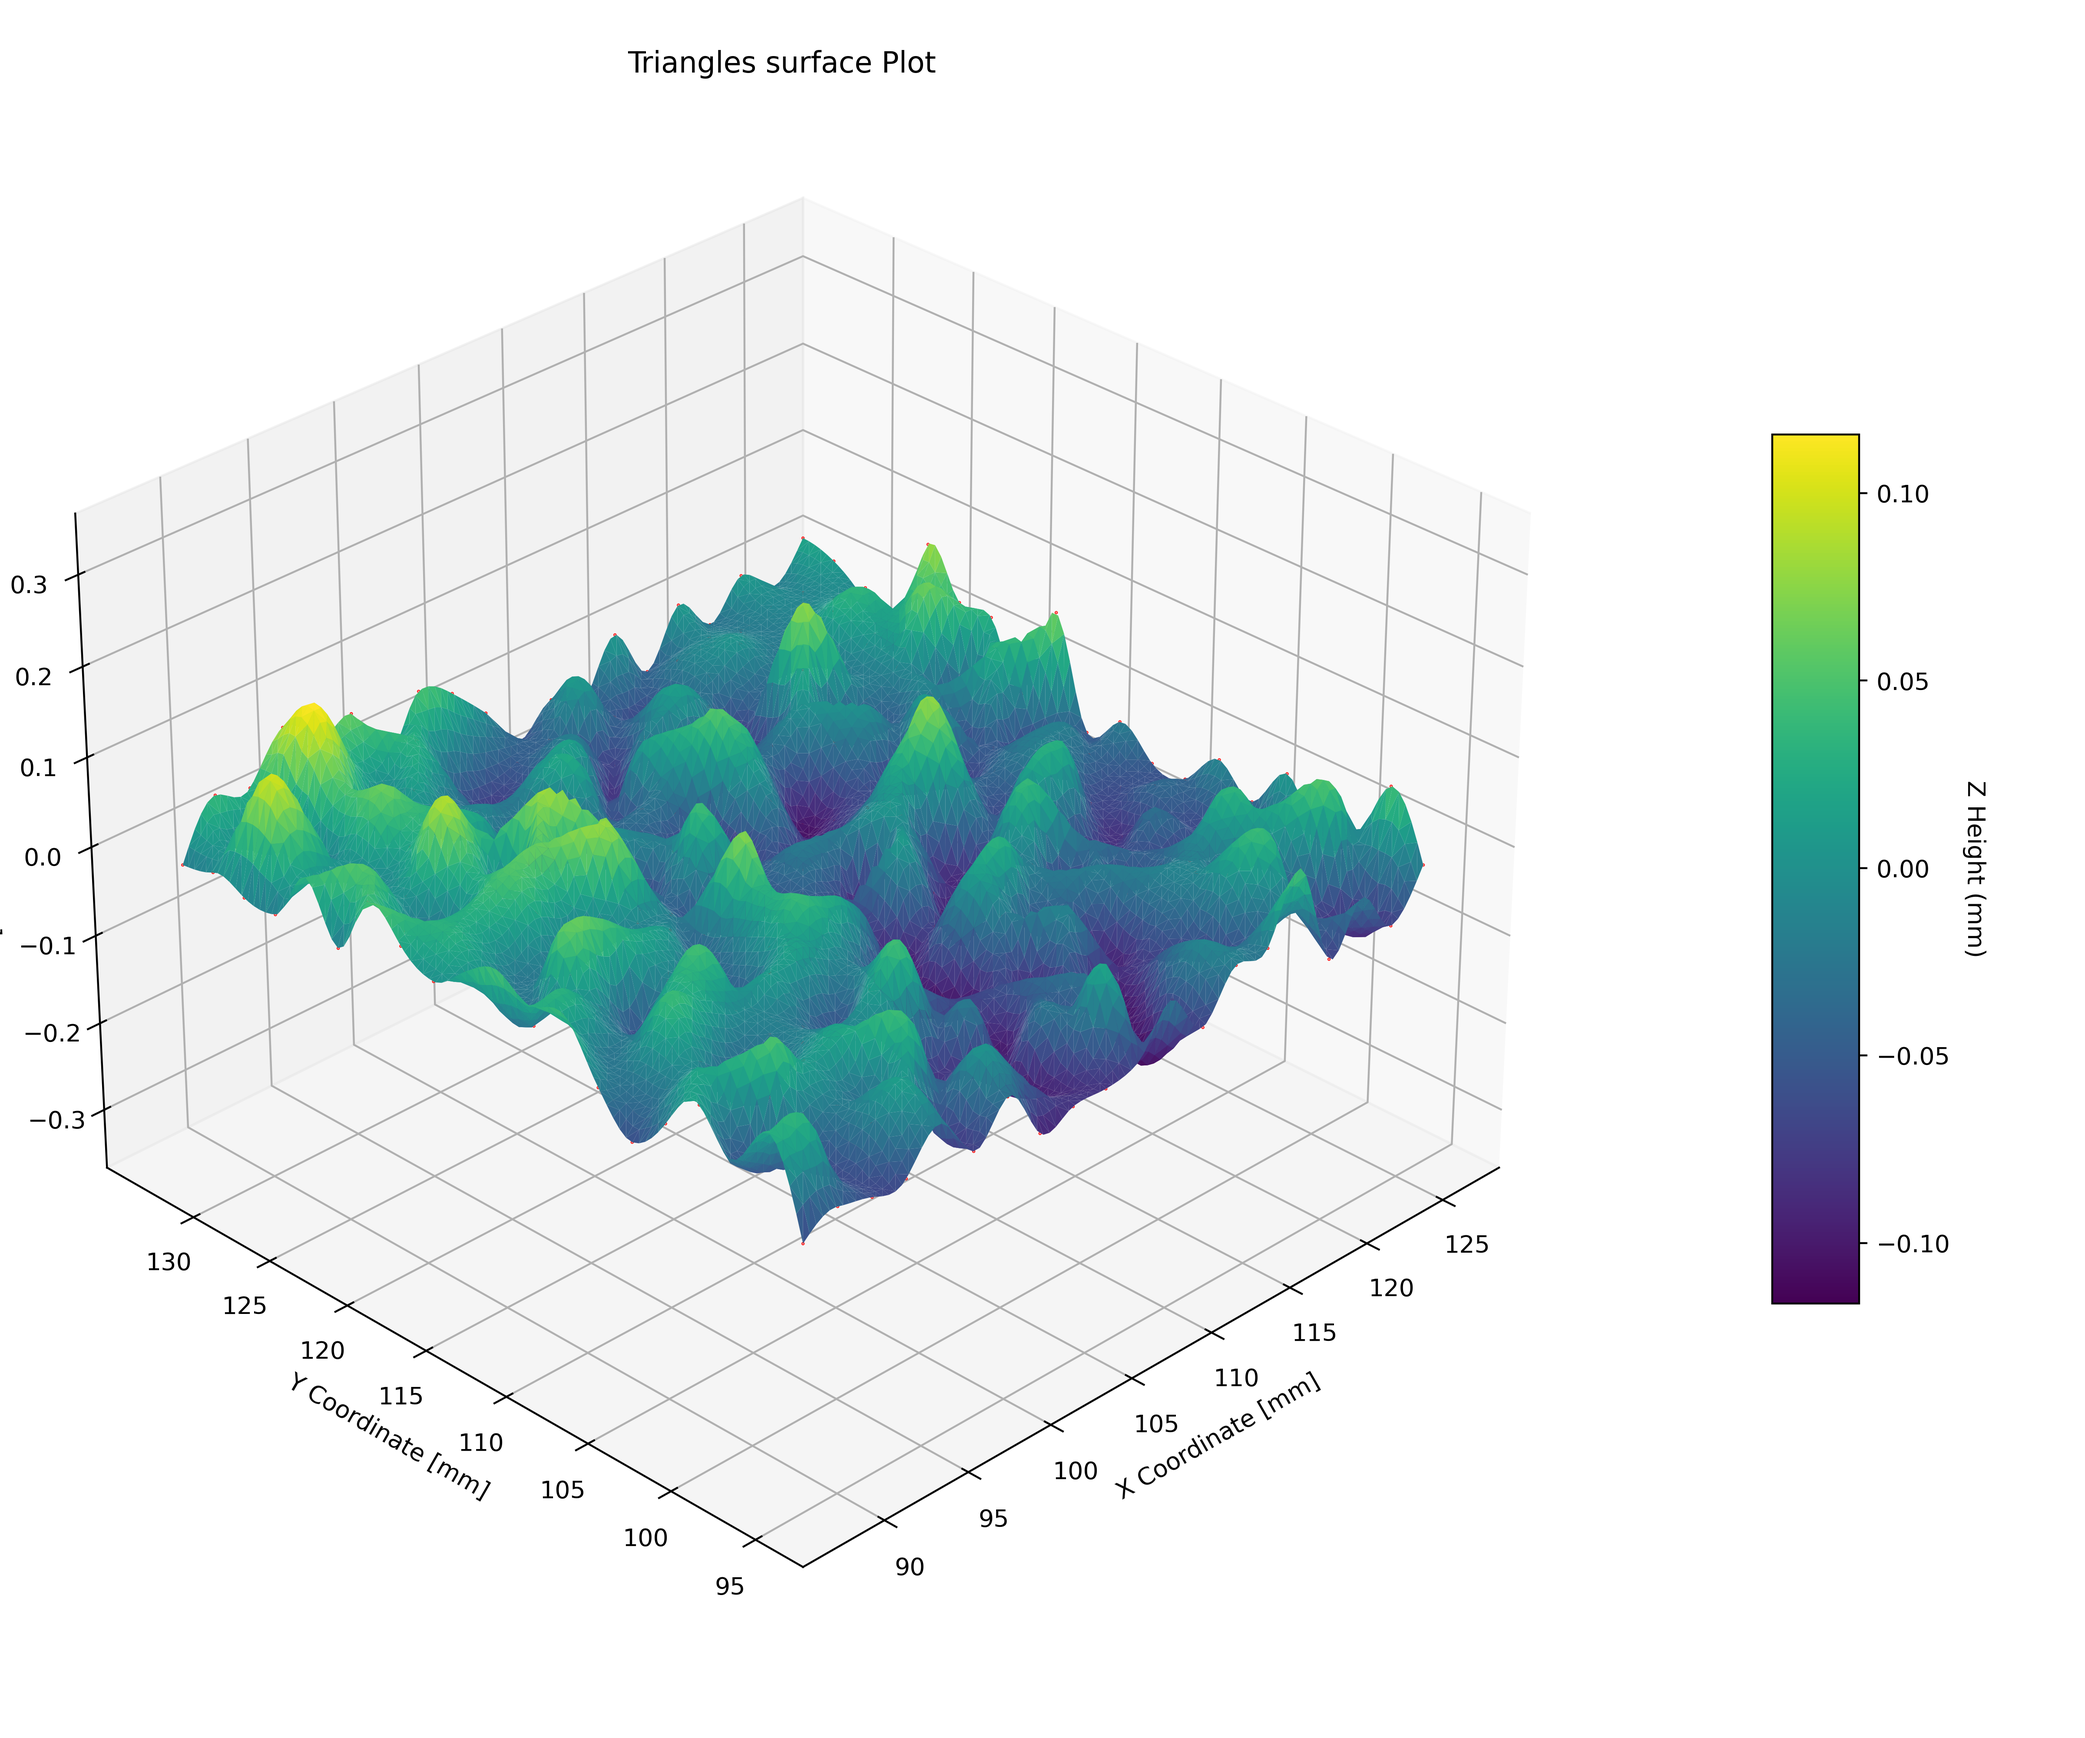
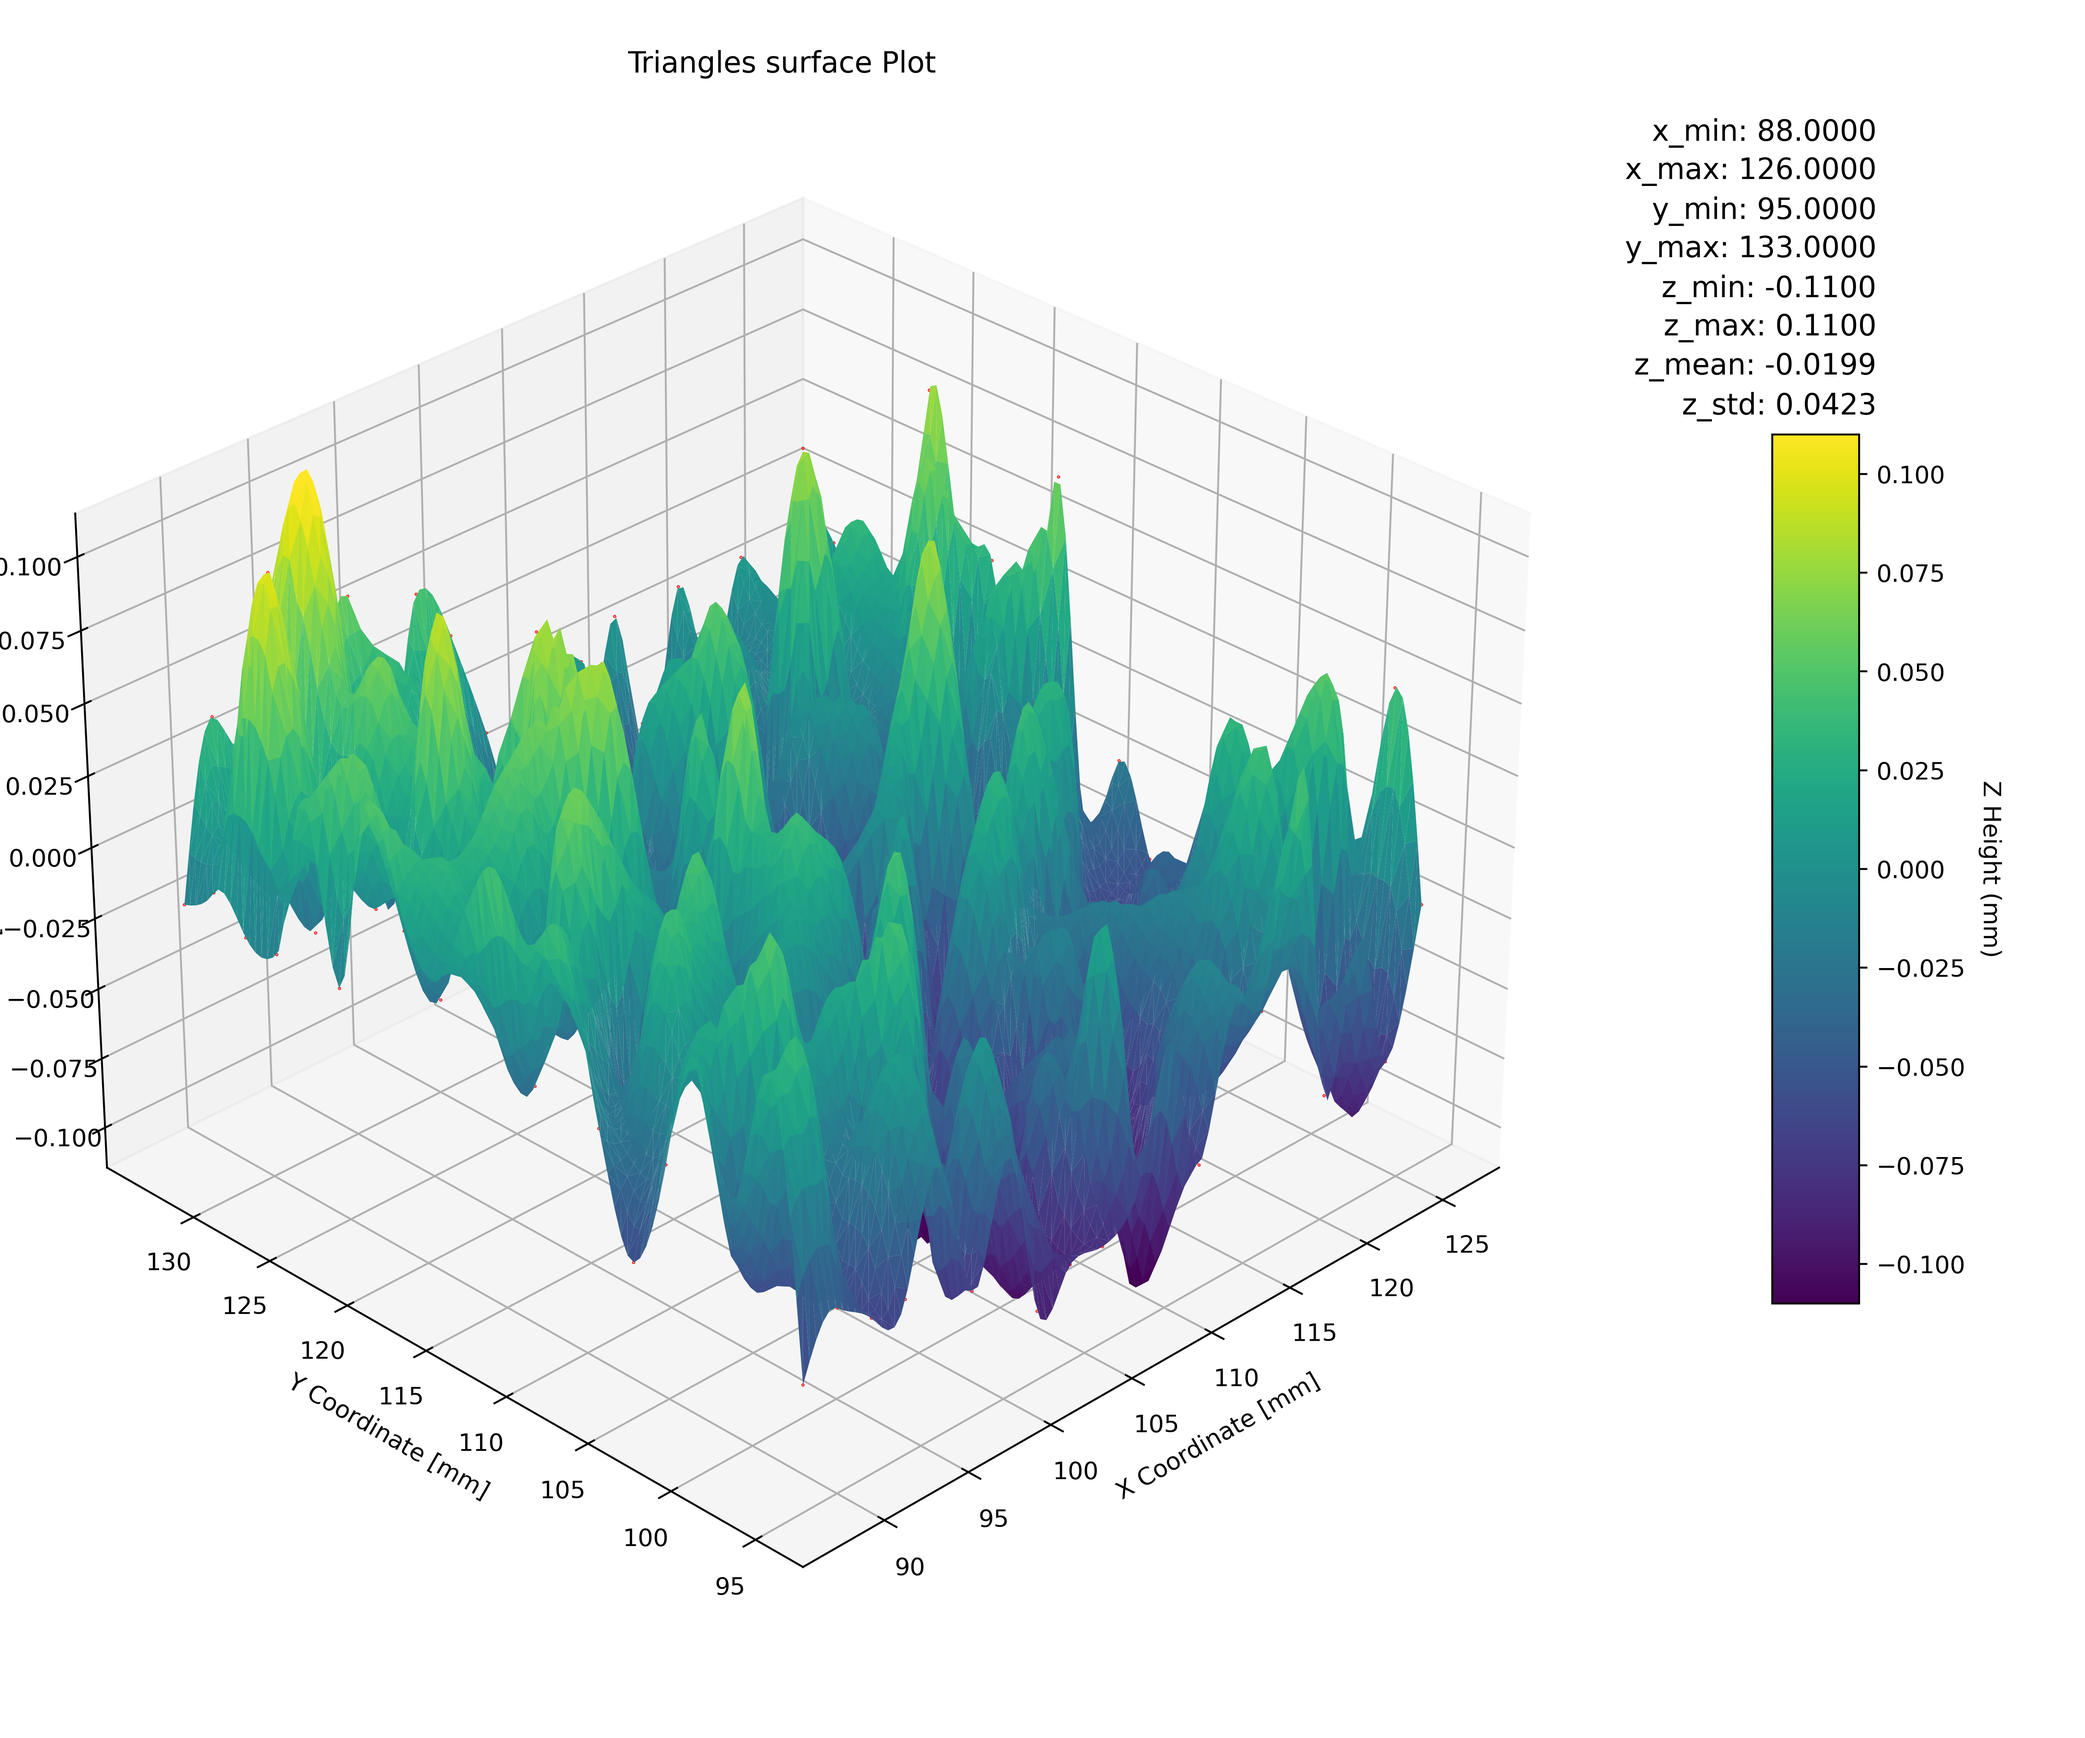
Add z limits by configuration. Print metrics.

diff --git a/plot-bed-leveling/plot_bed_leveling.py b/plot-bed-leveling/plot_bed_leveling.py
@@ -37,11 +37,14 @@ class Config:
         ]
 
         class Limits:
-            use_custom_limits = False,
+            use_custom_xy_limits = False,
+            use_custom_z_limits = False,
             x_max = 235,
             x_min = 0,
             y_max = 235,
             y_min = 0,
+            z_max = 235,
+            z_min = 0,
 
     class Grid:
         class Shape:
@@ -64,11 +67,14 @@ class Config:
         Config.Figure.dots_per_inch = json_dict["figure"]["dots_per_inch"]
         Config.Figure.marker_size = json_dict["figure"]["marker_size"]
         Config.Figure.z_expansion = json_dict["figure"]["z_expansion"]
-        Config.Figure.Limits.use_custom_limits = json_dict["figure"]["limits"]["use_custom_limits"]
+        Config.Figure.Limits.use_custom_xy_limits = json_dict["figure"]["limits"]["use_custom_xy_limits"]
+        Config.Figure.Limits.use_custom_z_limits = json_dict["figure"]["limits"]["use_custom_z_limits"]
         Config.Figure.Limits.x_min = json_dict["figure"]["limits"]["x"]["min"]
         Config.Figure.Limits.x_max = json_dict["figure"]["limits"]["x"]["max"]
         Config.Figure.Limits.y_min = json_dict["figure"]["limits"]["y"]["min"]
         Config.Figure.Limits.y_max = json_dict["figure"]["limits"]["y"]["max"]
+        Config.Figure.Limits.z_min = json_dict["figure"]["limits"]["z"]["min"]
+        Config.Figure.Limits.z_max = json_dict["figure"]["limits"]["z"]["max"]
 
         # Store grid parameters
         Config.Grid.Shape.x = json_dict["grid"]["shape"]["x"]
@@ -85,7 +91,7 @@ class Config:
 
 # --------- Data management functions ---------
 
-def extract_df_coordinates(csv_df: DataFrame) -> tuple[ndarray, ndarray]:
+def extract_df_coordinates(csv_df: DataFrame) -> tuple[ndarray, ndarray, ndarray]:
     '''Extract csv data coordinates as numpy array'''
     return csv_df.iloc[:, 1].values, csv_df.iloc[:, 2].values, csv_df.iloc[:, 3].values
 
@@ -116,11 +122,8 @@ def prepare_plot():
 
 def scale_xy_axis(ax: Axes, x: ndarray, y: ndarray):
     '''Set x-y axis limits to mantain proportional scaling between the x and y axes'''
-    
-    # Configure x-y limits
-    # ---------------------------------
-
-    if Config.Figure.Limits.use_custom_limits:
+    # Custom xy limits defined by configuration
+    if Config.Figure.Limits.use_custom_xy_limits:
         ax.set_xlim(
             Config.Figure.Limits.x_min,
             Config.Figure.Limits.x_max)
@@ -181,14 +184,20 @@ def scale_xy_axis(ax: Axes, x: ndarray, y: ndarray):
     
 def scale_z_axis(ax: Axes, z: ndarray):
     '''Scale Z axis taking into acount the z expansion provided by configuration'''
-    # Get z limits and range
-    z_min, z_max = np.min(z), np.max(z)
-    z_range = z_max - z_min
+    # Custom z limits defined by configuration
+    if Config.Figure.Limits.use_custom_z_limits:
+        ax.set_zlim(
+            Config.Figure.Limits.z_min,
+            Config.Figure.Limits.z_max)
+    else:
+        # Get z limits and range
+        z_min, z_max = np.min(z), np.max(z)
+        z_range = z_max - z_min
 
-    # Set new Z-limits to make the plot "flatter" by expanding the Z range
-    ax.set_zlim(
-        z_min - Config.Figure.z_expansion * z_range,
-        z_max + Config.Figure.z_expansion * z_range)
+        # Set new Z-limits to make the plot "flatter" by expanding the Z range
+        ax.set_zlim(
+            z_min - Config.Figure.z_expansion * z_range,
+            z_max + Config.Figure.z_expansion * z_range)
 
 def add_color_bar(fig: Figure, ax: Axes, surf):
     '''Add a color bar to the plot'''
@@ -197,6 +206,39 @@ def add_color_bar(fig: Figure, ax: Axes, surf):
                              aspect=Config.ColorBar.aspect,
                              pad=Config.ColorBar.pad)
     color_bar.set_label('Z Height (mm)', rotation=270, labelpad=15)
+
+def add_statistics_metrics(ax: Axes, reference_points_df: DataFrame):
+    ''''''
+    x, y, z = extract_df_coordinates(reference_points_df)
+    x_min, x_max = x.min(), x.max()
+    y_min, y_max = y.min(), y.max()
+    z_min, z_max = z.min(), z.max()
+
+    z_mean = z.mean()
+    z_std = z.std()
+
+    # Print metrics
+    print(f"x min: {x_min}")
+    print(f"x max: {x_max}")
+    print(f"y min: {y_min}")
+    print(f"y max: {y_max}")
+    print(f"z min: {z_min}")
+    print(f"z max: {z_max}")
+    print(f"z mean:{z_mean}")
+    print(f"z std: {z_std}")
+
+    # Define the set of values to display in the top-right corner
+    text_values = [("x_min", x_min), ("x_max", x_max),
+              ("y_min", y_min), ("y_max", y_max),
+              ("z_min", z_min), ("z_max", z_max),
+              ("z_mean", z_mean), ("z_std", z_std)]
+
+    # Add each value to the top-right corner
+    for i, text_value in enumerate(text_values):
+        text = text_value[0]
+        value = text_value[1]
+        ax.text2D(1.2, 0.98 - i * 0.025, f"{text}: {value:.4f}",
+                transform=ax.transAxes, ha='right', va='top', fontsize=12, color='black')
 
 def save_figures(plot_type, output_path_base, fig: Figure, ax: Axes):
     '''Check output path existence. Save the figures provided by configuration->figure->views'''
@@ -248,8 +290,15 @@ def create_and_save_2D_view(plot_type, output_path_base, reference_points_df, gr
     # Scale x y axis to mantain aspect ratio. Scale z axis
     scale_xy_axis(ax2, x, y)
 
-    # Plot the contour (flat 2D view)
-    c = ax2.contourf(grid_x, grid_y, grid_z, 20, cmap='viridis')  # 20 levels in the color map
+    
+    # Custom z limits defined by configuration
+    if Config.Figure.Limits.use_custom_z_limits:
+        # Plot the contour (flat 2D view)
+        c = ax2.contourf(grid_x, grid_y, grid_z, 20, cmap='viridis',
+                         vmin=Config.Figure.Limits.z_min, vmax=Config.Figure.Limits.z_max)
+    else:
+        # Plot the contour (flat 2D view)
+        c = ax2.contourf(grid_x, grid_y, grid_z, 20, cmap='viridis')
 
     # Add color bar
     color_bar = fig2.colorbar(c) # Z Height [mm]
@@ -324,7 +373,7 @@ def process_csv_df(csv_df: DataFrame):
     biased_csv_df.iloc[:, 2] = csv_df.iloc[:, 2] + Config.ZProbeBias.y
 
     # If custom limist are provided by configuration
-    if Config.Figure.Limits.use_custom_limits:
+    if Config.Figure.Limits.use_custom_xy_limits:
         # Get the mask for those values inside the limits
         mask_x = (biased_csv_df.iloc[:, 1] >= Config.Figure.Limits.x_min) & \
                  (biased_csv_df.iloc[:, 1] <= Config.Figure.Limits.x_max)
@@ -356,12 +405,7 @@ def process_csv_df(csv_df: DataFrame):
     # Divide the max and min values in 2 even sides
     processed_csv_df.iloc[:, 3] -= z_middle
 
-    print(f"x min: {processed_csv_df.iloc[:, 1].min()}")
-    print(f"x max: {processed_csv_df.iloc[:, 1].max()}")
-    print(f"y min: {processed_csv_df.iloc[:, 2].min()}")
-    print(f"y max: {processed_csv_df.iloc[:, 2].max()}")
-    print(f"z min: {processed_csv_df.iloc[:, 3].min()}")
-    print(f"z max: {processed_csv_df.iloc[:, 3].max()}")
+    
 
     return processed_csv_df
 
@@ -401,13 +445,22 @@ def plot_surface(reference_points_df, grid_np, output_path_base):
     # Set title
     ax.set_title('Surface Plot')
 
+    # Plot the surface
     surf = ax.plot_surface(grid_x, grid_y, grid_z, cmap='viridis', edgecolor='none')
+
+    # Custom z limits defined by configuration
+    if Config.Figure.Limits.use_custom_z_limits:
+        # Set colormap limits
+        surf.set_clim(vmin=Config.Figure.Limits.z_min, vmax=Config.Figure.Limits.z_max)
 
     # Plot the points
     ax.scatter(x, y, z, c='r', marker='o', s=Config.Figure.marker_size, alpha=1.0)  # You can adjust color and marker style
 
     # Add color bar
     add_color_bar(fig, ax, surf)
+
+    # Add statistics
+    add_statistics_metrics(ax, reference_points_df)
 
     # Save 3D figures
     save_figures(plot_type, output_path_base, fig, ax)
@@ -444,15 +497,27 @@ def plot_trisurf(reference_points_df, grid_np, output_path_base):
     # Plot the surface using trisurf
     surf = ax.plot_trisurf(x_flat, y_flat, z_flat, cmap='viridis')
 
+    # Custom z limits defined by configuration
+    if Config.Figure.Limits.use_custom_z_limits:
+        # Set colormap limits
+        surf.set_clim(vmin=Config.Figure.Limits.z_min, vmax=Config.Figure.Limits.z_max)
+
     # Plot the points
     ax.scatter(x, y, z, c='r', marker='o', s=Config.Figure.marker_size, alpha=1.0)  # You can adjust color and marker style
 
+    # Add color bar
     add_color_bar(fig, ax, surf)
 
+    # Add statistics
+    add_statistics_metrics(ax, reference_points_df)
+
+    # Save 3D figures
     save_figures(plot_type, output_path_base, fig, ax)
 
+    # Save top view figure
     save_top_figure(plot_type, output_path_base, fig, ax, x, y, z)
 
+    # Create and save 2D view
     create_and_save_2D_view(plot_type, output_path_base, reference_points_df, grid_np)
 
 if __name__ == "__main__":

diff --git a/docs/config/config.md b/docs/config/config.md
@@ -9,7 +9,8 @@
     "figure": {                         // Figure related configuration
         "size": [12, 10],               // Set the figure size on inches
         "limits": {                     // To setup the limits
-            "use_custom_limits": true,  // Flag to indicate wheter or not to use the custom limits provided below
+            "use_custom_limits": true,  // Flag to indicate whether or not to use the custom limits provided below
+            "use_custom_z_limits": false,  // Flag to indicate whether or not to use the custom limits provided below
             "x": {                      // x limits
                 "min": 0,
                 "max": 235
@@ -17,6 +18,10 @@
             "y": {                      // y limits
                 "min": 0,
                 "max": 235
+            },
+            "z": {
+                "min": -0.11,
+                "max": 0.11
             }
         },
         "dots_per_inch": 400,           // resolution, pixels per inch
